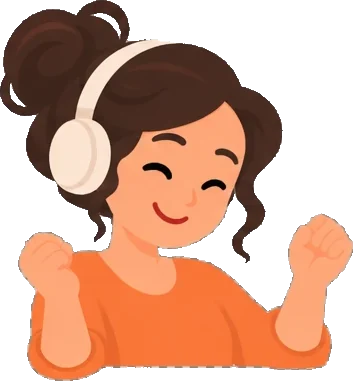
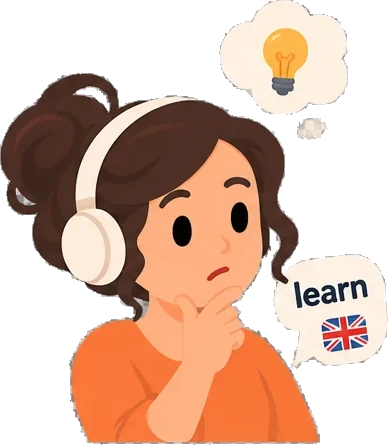
Tutorial: listening step shows words in bubbles instead of music notes
Headphones on, she hears "bonjour", chats on her phone, cheers "¡hola!",
thinks over "learn", holds up an apple card, claps at "bien!", jots down
casa / water / ありがとう and finishes with "All done!". The floating
music notes are gone.

diff --git a/components/tutorial/guide-character.tsx b/components/tutorial/guide-character.tsx
@@ -49,7 +49,7 @@ const POINT_HAIR_TOP = 167
 const CARD_SCALE = 0.26
 const t = (name: string) => `/tutorial/guide-${name}.webp`
 
-type CardFx = 'swipe' | 'flags' | 'notes' | 'sparkles'
+type CardFx = 'swipe' | 'flags' | 'sparkles'
 
 // x: shift that lines the head up with the reference pose; cut: the row
 // where her body is cut off; w/h: image size. All in sheet pixels.
@@ -120,17 +120,17 @@ export const CARD_GUIDES = {
     loop: [[4, 900], [6, 1300], [5, 600], [7, 1200], [8, 900], [6, 1100]],
     fx: 'flags', fxAt: { x: 352, y: 112 }, fxFrame: 6, fxOn: [4, 5, 6, 7, 8],
   },
+  // Headphones on, words popping up in bubbles as she listens and learns.
   listen: {
     kind: 'poses', name: 'listen', side: 'right',
     frames: [
-      { x: 0, cut: 394, w: 327, h: 404 }, { x: -10, cut: 384, w: 333, h: 386 },
-      { x: -21, cut: 377, w: 342, h: 380 }, { x: 39, cut: 366, w: 353, h: 381 },
-      { x: 28, cut: 407, w: 355, h: 411 }, { x: 15, cut: 401, w: 378, h: 408 },
-      { x: 38, cut: 398, w: 340, h: 411 }, { x: 30, cut: 394, w: 386, h: 395 },
+      { x: 0, cut: 417, w: 361, h: 421 }, { x: 4, cut: 407, w: 361, h: 409 },
+      { x: 3, cut: 427, w: 385, h: 428 }, { x: -4, cut: 443, w: 388, h: 445 },
+      { x: 2, cut: 407, w: 348, h: 411 }, { x: -6, cut: 402, w: 405, h: 403 },
+      { x: -21, cut: 391, w: 411, h: 402 }, { x: 10, cut: 366, w: 351, h: 369 },
     ],
-    intro: [[1, 1200]],
-    loop: [[2, 700], [3, 450], [4, 450], [7, 450], [4, 450], [6, 700], [8, 900], [5, 800], [1, 1400]],
-    fx: 'notes', fxAt: { x: 286, y: 110 }, fxFrame: 1,
+    intro: [[1, 1300]],
+    loop: [[2, 1100], [3, 1000], [4, 1100], [5, 1100], [6, 1000], [7, 1400], [8, 1300], [1, 1300]],
   },
   cheer: {
     kind: 'poses', name: 'cheer', side: 'right',
@@ -505,15 +505,6 @@ export function CardGuide({ name }: { name: CardGuideName }) {
           <Icon icon={PRESENT_FLAGS[flag % PRESENT_FLAGS.length]} className="w-full h-full rounded-full shadow-md" />
         </span>
       )}
-      {up && fx && g.fx === 'notes' && [0, 1, 2].map(i => (
-        <span
-          key={i}
-          className="guide-note absolute text-[15px] font-bold leading-none text-[#f26b1d]"
-          style={{ left: fx.left + i * 6, top: fx.top, animationDelay: `${i * 0.9}s` }}
-        >
-          {i === 1 ? '♫' : '♪'}
-        </span>
-      ))}
       {up && g.fx === 'sparkles' && [[0.02, 0.5], [0.94, 0.42], [0.84, 0.06]].map(([x, y], i) => (
         <span
           key={i}

diff --git a/app/globals.css b/app/globals.css
@@ -215,16 +215,6 @@ input, textarea, [contenteditable] {
   78% { transform: translateY(-3px) scale(1); opacity: 0.9; }
   100% { transform: translateY(-14px) scale(0.85); opacity: 0; }
 }
-/* Listening step: music notes float up from her headphones. */
-.guide-note {
-  animation: guide-note 2.7s ease-out infinite both;
-}
-@keyframes guide-note {
-  0% { transform: translate(0, 6px) scale(0.6) rotate(-10deg); opacity: 0; }
-  15% { opacity: 1; }
-  50% { transform: translate(7px, -14px) scale(1) rotate(8deg); }
-  100% { transform: translate(-3px, -34px) scale(0.9) rotate(-6deg); opacity: 0; }
-}
 /* Cheering step: sparkles twinkle around her. */
 .guide-twinkle {
   animation: guide-twinkle 1.65s ease-in-out infinite both;
@@ -243,7 +233,7 @@ input, textarea, [contenteditable] {
 }
 @media (prefers-reduced-motion: reduce) {
   .guide-caption-in { animation: none; }
-  .guide-ripple, .guide-note, .guide-twinkle { display: none; }
+  .guide-ripple, .guide-twinkle { display: none; }
   .guide-flag-pop, .guide-beat-a, .guide-beat-b { animation: none; }
 }
 
